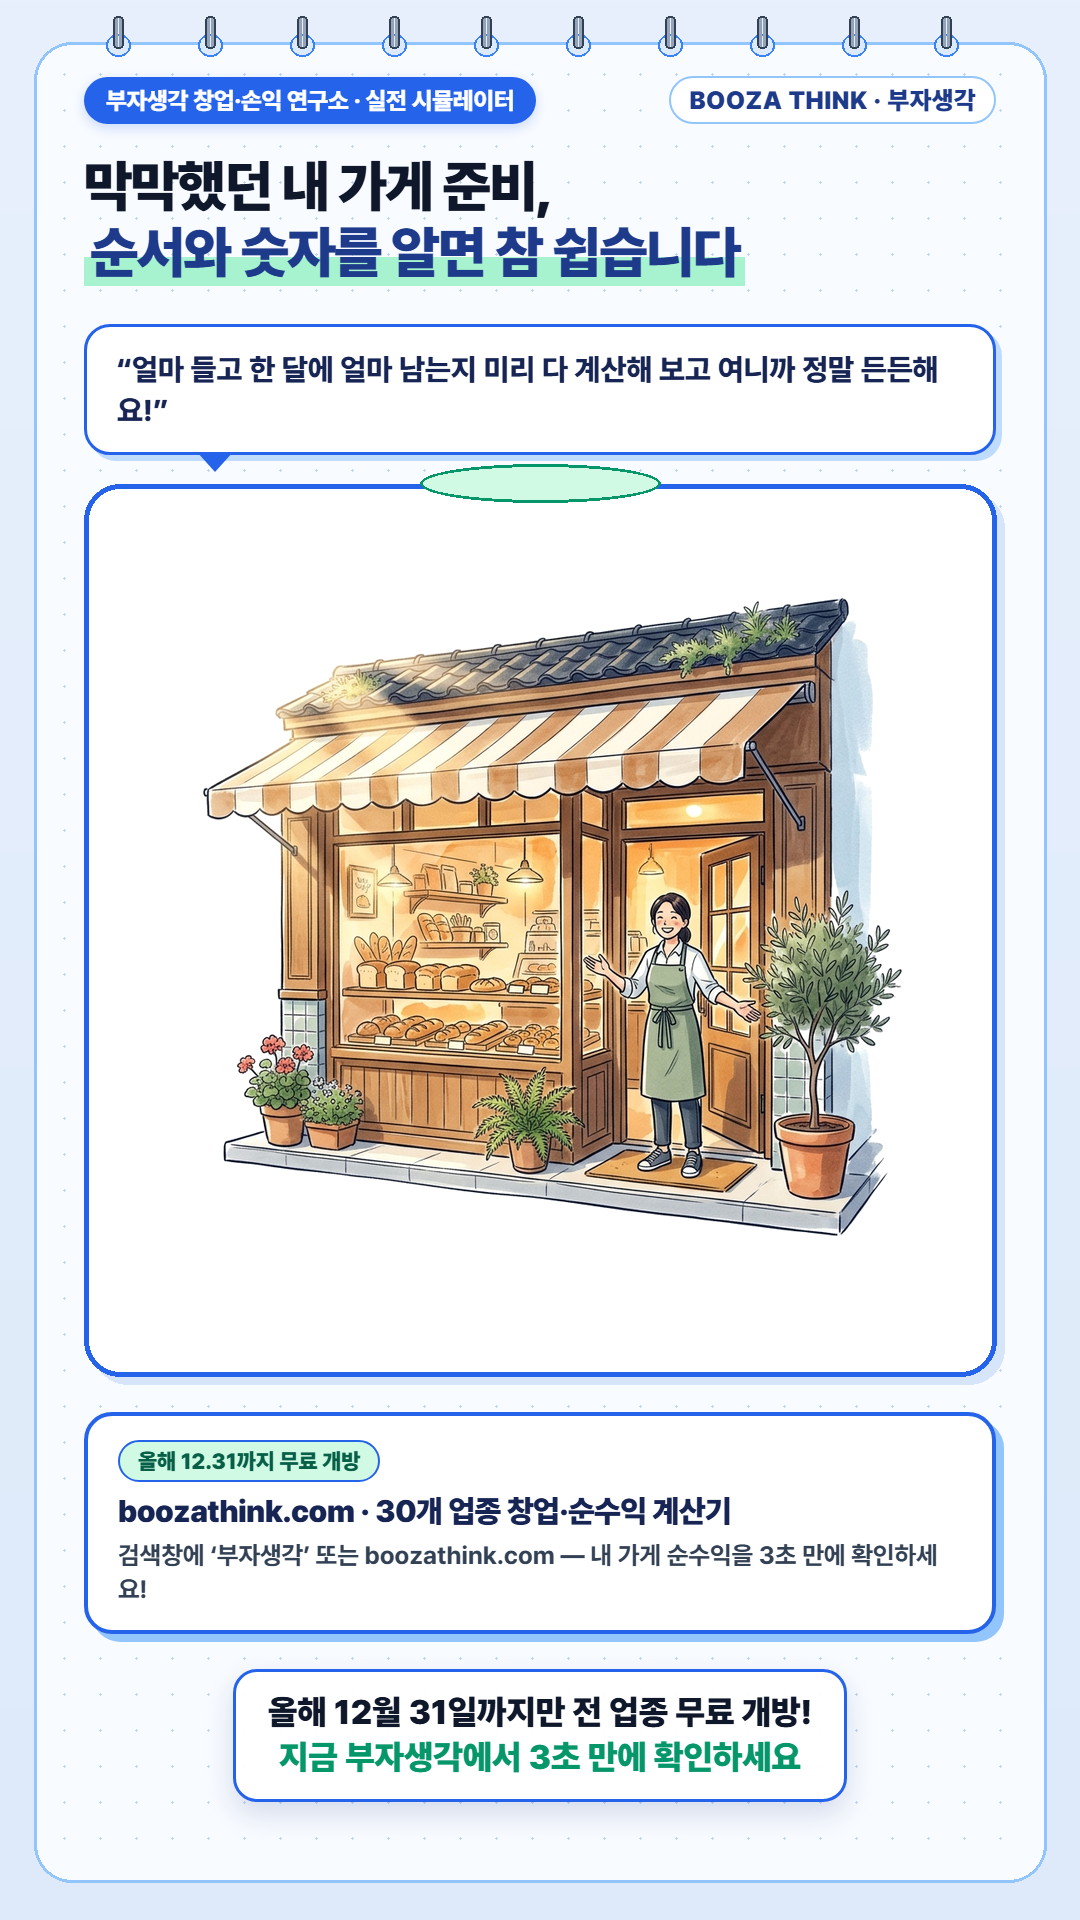
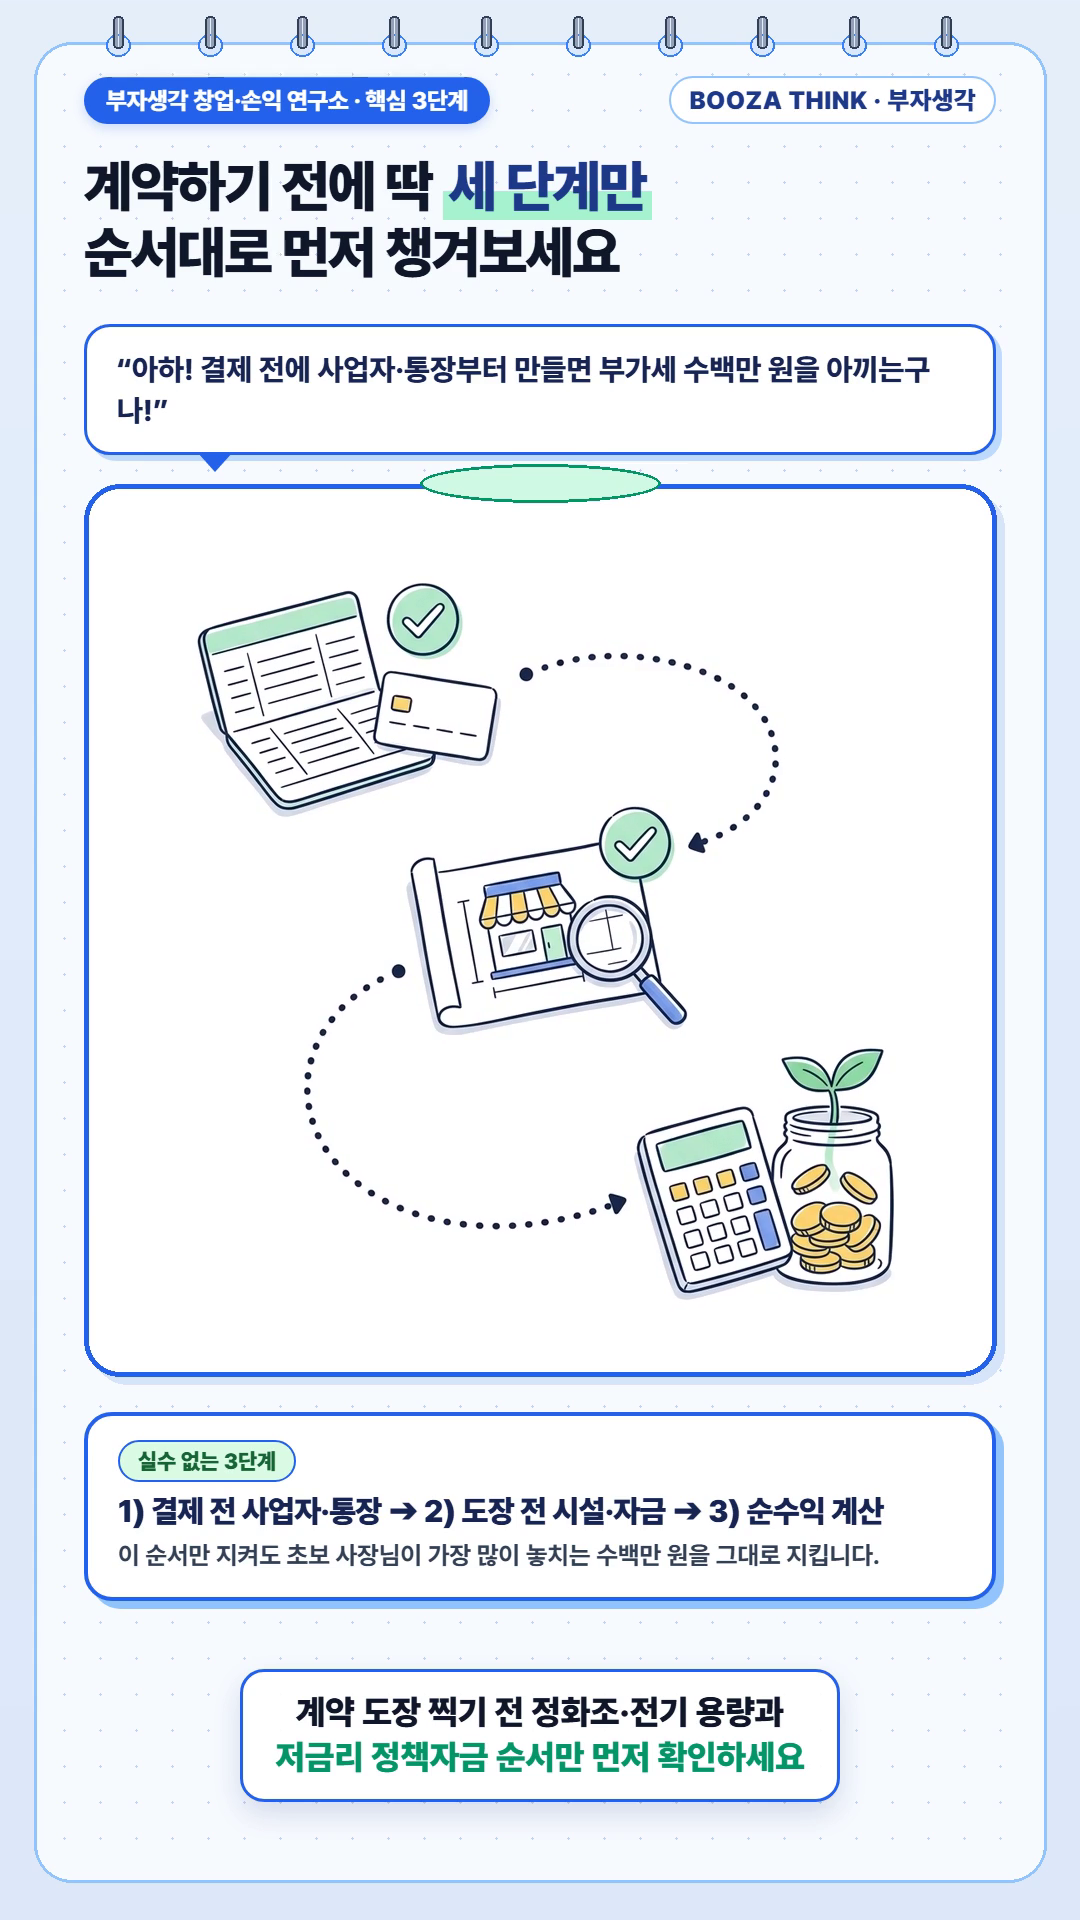
chore(youtube): strip promotional trigger words from YouTube titles, descriptions, and thumbnails

diff --git a/youtube_studio/youtube_boozathink_uploader.py b/youtube_studio/youtube_boozathink_uploader.py
@@ -181,6 +181,7 @@ def stage_for_manual_youtube_and_reels(
     pinned_comment: str,
     tags: list[str],
     subfolder: str = "01_쇼츠_릴스_업로드_대기함",
+    alt_titles: list[str] | None = None,
 ) -> Path:
     box = MANUAL_UPLOAD_BOX / subfolder
     box.mkdir(parents=True, exist_ok=True)
@@ -189,14 +190,23 @@ def stage_for_manual_youtube_and_reels(
     if thumb_path and thumb_path.exists():
         shutil.copy2(thumb_path, box / thumb_path.name)
 
+    alt_block = ""
+    if alt_titles:
+        alt_block = (
+            "▶ 취향대로 골라 쓰는 대체 제목 후보:\n"
+            + "\n".join(f"  {idx+1}) {t}" for idx, t in enumerate(alt_titles))
+            + "\n\n"
+        )
+
     meta_txt = box / f"{mp4_path.stem}_제목_설명_고정댓글_복사용.txt"
     meta_content = (
-        f"[부자생각 (BoozaThink) — 유튜브 쇼츠 & 인스타 릴스 & 스레드 복사용 시트]\n"
+        f"[부자생각 (BoozaThink) — 유튜브 & 인스타 릴스 & 스레드 복사용 시트]\n"
         f"========================================================================\n"
         f"▶ 영상 파일: {dst_mp4.name}\n\n"
-        f"▶ 유튜브 쇼츠 제목 (그대로 복사):\n{title}\n\n"
+        f"▶ 1순위 추천 제목 (그대로 복사):\n{title}\n\n"
+        f"{alt_block}"
         f"▶ 유튜브 설명란 / 인스타 릴스 캡션 (그대로 복사):\n{description}\n\n"
-        f"▶ 조회수 전환율을 높이는 베스트 고정댓글 (업로드 직후 첫 댓글로 고정!):\n{pinned_comment}\n\n"
+        f"▶ 조회수 전환율을 높이는 고정댓글 (업로드 직후 첫 댓글로 고정!):\n{pinned_comment}\n\n"
         f"▶ 추천 태그:\n{', '.join(tags)}\n"
     )
     meta_txt.write_text(meta_content, encoding="utf-8")
@@ -214,6 +224,7 @@ def upload_shorts_package(
     privacy: str = "public",
     force_api_upload: bool = False,
     subfolder: str = "01_쇼츠_릴스_업로드_대기함",
+    alt_titles: list[str] | None = None,
 ) -> str:
     from googleapiclient.http import MediaFileUpload
 
@@ -225,6 +236,7 @@ def upload_shorts_package(
         pinned_comment=pinned_comment,
         tags=tags,
         subfolder=subfolder,
+        alt_titles=alt_titles,
     )
     if not force_api_upload:
         print(
@@ -264,23 +276,19 @@ def upload_ep01(privacy: str = "public", force_api_upload: bool = False) -> str:
     if not mp4_path.exists():
         raise FileNotFoundError(f"1호 쇼츠 영상이 아직 생성되지 않았습니다: {mp4_path}")
 
-    title = "내 가게 창업, 순서만 알면 참 쉽습니다 — 계약 전 꼭 먼저 챙길 3가지 #부자생각 #Shorts"
+    title = "내 가게 창업, 순서만 알면 참 쉽습니다 — 계약 전 꼭 먼저 챙길 3가지 | 부자생각 #Shorts"
     description = (
         "막막해 보이던 내 가게 준비도 순서와 숫자부터 알면 훨씬 쉽고 명확해집니다.\n\n"
         "1) 인테리어 결제 전 사업자등록·사업용 통장 먼저 만들어 부가세 환급 챙기기\n"
         "2) 임대차 계약서 도장 찍기 전 정화조·전기 용량과 정책자금 신청 순서 확인하기\n"
         "3) 30개 업종별 초기 비용과 배달·세금 뺀 진짜 순수익 먼저 계산해 보기\n\n"
-        "올해 12월 31일까지만 모든 업종 계산기와 결과표 이미지 저장을 무료로 열어두었습니다.\n"
-        "내 업종과 자본금을 넣고 3초 만에 실제 순수익과 안전 자금선을 확인해 보세요.\n\n"
-        "무료 창업·순수익 시뮬레이터: https://boozathink.com/calculators/startup-master?utm_source=yt_shorts&utm_medium=ep01\n"
-        "창업 준비부터 첫 1년 전체 순서표: https://boozathink.com/start-guide?utm_source=yt_shorts&utm_medium=ep01\n\n"
-        "#부자생각 #BoozaThink #초보창업 #소자본창업 #자영업 #개인사업자 #창업순서 #창업비용계산기 #Shorts"
+        "내 업종과 자본금을 넣어 한 달 실제 순수익과 안전 자금선을 미리 점검해 보세요.\n"
+        "• 부자생각 창업·손익 연구소: https://boozathink.com\n\n"
+        "#부자생각 #BoozaThink #초보창업 #소자본창업 #자영업 #개인사업자 #창업순서 #손익계산 #Shorts"
     )
     pinned_comment = (
-        "내 가게 차릴 때 얼마가 들고 한 달에 실제로 얼마가 남을지 막막하셨다면,\n"
-        "올해 12월 31일까지 무료로 열어둔 부자생각 창업 계산기에서 내 업종 숫자를 먼저 넣어보세요!\n"
-        "👉 무료 창업·순수익 계산기: https://boozathink.com/calculators/startup-master?utm_source=yt_shorts&utm_medium=ep01_comment\n"
-        "👉 계약부터 첫 1년 전체 순서표: https://boozathink.com/start-guide?utm_source=yt_shorts&utm_medium=ep01_comment"
+        "내 가게 차릴 때 실제로 얼마가 들고 한 달에 얼마가 남을지 막막하셨다면,\n"
+        "검색창에 ‘부자생각(boozathink.com)’을 쳐서 내 업종 숫자를 직접 넣어 확인해 보세요!"
     )
     tags = [
         "부자생각",
@@ -317,23 +325,27 @@ def upload_intro(privacy: str = "public", force_api_upload: bool = False) -> tup
     r16 = upload_shorts_package(
         mp4_path=mp4_16,
         thumb_path=thumb,
-        title="[부자생각 공식 소개] 창업 전 예상수익 계산부터 운영 중 새는 돈 구멍까지! 무료 3초 실전 시뮬레이터",
+        title="창업 전 예상수익부터 장사 중 새는 돈 구멍까지, 숫자로 한눈에 잡는 법 | 부자생각",
+        alt_titles=[
+            "매출은 나오는데 왜 통장에 돈이 안 남을까? 내 가게 손익 구멍 3초 진단법 | 부자생각",
+            "계약 도장 찍기 전 꼭 계산해 봐야 할 진짜 순수익 이야기 — 부자생각 창업·손익 연구소",
+        ],
         description=(
             "창업을 앞두고 실제로 한 달에 얼마가 남을지 미리 계산해 보고 싶으신가요?\n"
             "아니면 지금 열심히 사업은 하고 있는데 도대체 어디서 돈이 새는지 손익 구조의 구멍을 확실히 찾아내고 싶으신가요?\n\n"
-            "예비창업자 · 매장 사장님 · 온라인 셀러를 위한 실전 창업·손익 연구소, 부자생각(boozathink.com)을 소개합니다!\n\n"
-            "• 30개 업종 실전 창업 마스터: 초기 인테리어·창업비용부터 비수기 버티는 힘까지 계산\n"
-            "• 매장 손익 구멍 정밀 탐지: 배달·포장 수수료 마진, 상가 월세 손익분기점, 주휴수당 vs 키오스크 비교\n"
-            "• 온라인 셀러 & 자금·세금 판독: 쿠팡·스토어 광고 효율·반품 손실, 저금리 정책자금·대환 진단, 부가세·종소세 계산기\n\n"
-            "올해 12월 31일까지만 모든 업종 시뮬레이터를 무료로 열어두었으니 누구나 편하게 찾아와 사용해 보세요!\n\n"
-            "👉 부자생각 무료 3초 시뮬레이터: https://boozathink.com/?utm_source=youtube&utm_medium=channel_intro\n\n"
-            "#부자생각 #BoozaThink #창업시뮬레이터 #자영업순수익 #배달마진계산기 #스마트스토어마진 #정책자금"
+            "예비창업자 · 매장 사장님 · 온라인 셀러를 위한 실전 창업·손익 연구소, 부자생각입니다.\n\n"
+            "• 30개 업종 실전 창업 설계: 초기 인테리어·창업비용부터 비수기 버티는 현금흐름까지\n"
+            "• 매장 손익 구멍 정밀 점검: 배달·포장 수수료 마진, 상가 월세 손익분기점, 주휴수당 vs 키오스크 비교\n"
+            "• 온라인 셀러 & 자금·세금 계산: 쿠팡·스토어 광고 효율·반품 손실, 저금리 정책자금·대환 진단, 부가세·종소세 실수령\n\n"
+            "검색창에 ‘부자생각’을 검색하시거나 아래 주소에서 내 가게 숫자를 직접 넣어 확인해 보세요.\n"
+            "• 부자생각 창업·손익 연구소: https://boozathink.com\n\n"
+            "#부자생각 #BoozaThink #자영업순수익 #소자본창업 #배달마진 #스마트스토어 #정책자금 #손익계산"
         ),
         pinned_comment=(
-            "창업 전에 예상 수익을 미리 계산해 보고 싶은 분도, 사업 중 어디서 돈이 새는지 확실히 점검하고 싶은 사장님도 누구나 무료로 써보실 수 있습니다 (올해 12.31까지 무료 개방)!\n"
-            "👉 https://boozathink.com/?utm_source=youtube&utm_medium=intro_pinned"
+            "창업 전에 예상 수익을 미리 따져보고 싶은 분도, 지금 운영하는 매장에서 어디서 돈이 새는지 확실히 점검하고 싶은 사장님도\n"
+            "검색창에 ‘부자생각(boozathink.com)’을 쳐서 내 업종 숫자를 편하게 넣어 확인해 보세요!"
         ),
-        tags=["부자생각", "BoozaThink", "창업시뮬레이터", "자영업순수익", "배달마진", "스마트스토어", "정책자금", "손익계산기"],
+        tags=["부자생각", "BoozaThink", "자영업순수익", "소자본창업", "배달마진", "스마트스토어", "정책자금", "손익계산"],
         privacy=privacy,
         force_api_upload=force_api_upload,
         subfolder="01_공식_채널소개_영상팩",
@@ -341,14 +353,14 @@ def upload_intro(privacy: str = "public", force_api_upload: bool = False) -> tup
     r9 = upload_shorts_package(
         mp4_path=mp4_9,
         thumb_path=None,
-        title="창업 전 예상수익 계산도, 장사 중 새는 돈 구멍 찾기도 3초 만에 끝내는 법! #부자생각 #Shorts",
+        title="창업 전 예상수익도, 장사 중 새는 돈 구멍도 3초 만에 찾는 법 | 부자생각 #Shorts",
         description=(
-            "30개 업종 창업비용부터 배달·셀러 수수료 마진, 월세 손익분기점, 정책자금·세금까지 3초 만에 확인해 보세요! (올해 12.31까지 무료 개방)\n\n"
-            "👉 무료 3초 실전 시뮬레이터: https://boozathink.com/?utm_source=yt_shorts&utm_medium=intro_shorts\n\n"
-            "#부자생각 #BoozaThink #창업비용계산기 #자영업 #소상공인 #온라인셀러 #Shorts"
+            "30개 업종 창업비용부터 배달·셀러 수수료 마진, 월세 손익분기점, 정책자금·세금까지 숫자로 선명하게 점검해 보세요.\n\n"
+            "• 부자생각 창업·손익 연구소: https://boozathink.com\n\n"
+            "#부자생각 #BoozaThink #소자본창업 #자영업 #소상공인 #온라인셀러 #Shorts"
         ),
-        pinned_comment="내 업종·매장 손익 구멍 3초 무료 판독기 👉 https://boozathink.com/?utm_source=yt_shorts&utm_medium=intro_shorts_pinned",
-        tags=["부자생각", "BoozaThink", "창업계산기", "자영업", "온라인셀러", "Shorts"],
+        pinned_comment="내 업종 예상수익과 매장 손익 구멍 점검은 검색창에 ‘부자생각(boozathink.com)’을 검색해 보세요!",
+        tags=["부자생각", "BoozaThink", "소자본창업", "자영업", "온라인셀러", "Shorts"],
         privacy=privacy,
         force_api_upload=force_api_upload,
         subfolder="01_공식_채널소개_영상팩",

diff --git a/youtube_studio/build_boozathink_official_channel_intro.py b/youtube_studio/build_boozathink_official_channel_intro.py
@@ -967,7 +967,7 @@ def render_intro_thumbnail_1280x720(brush_white_mint: Image.Image, out_jpg: Path
         </div>
         <div class="main-h">창업 전 예상수익부터<span>새는 돈 구멍까지 3초 판독!</span></div>
         <div class="sim-strip">창업비용 · 배달마진 · 셀러ROAS · 정책자금 · 세금</div>
-        <div class="cta">올해 12.31 무료 개방 ▶ boozathink.com</div>
+        <div class="cta">30개 업종 실전 손익 계산 ▶ boozathink.com</div>
       </div>
       <div class="right-pad">
         <div class="r-top">누구나 숫자만 넣어 바로 확인</div>

diff --git a/youtube_studio/build_boozathink_sketch_shorts.py b/youtube_studio/build_boozathink_sketch_shorts.py
@@ -649,7 +649,7 @@ def build_ep01_shorts() -> Path:
             frame_rgb = frame_rgba.convert("RGB")
             if s_idx == 1 and fn == int(n_frames * 0.42):
                 frame_rgb.save(preview_s1_png, format="PNG")
-            if s_idx == 2 and fn == int(n_frames * 0.88):
+            if s_idx == 2 and fn == int(n_frames * 0.44):
                 frame_rgb.save(cover_png, format="PNG")
 
             proc.stdin.write(frame_rgb.tobytes())
